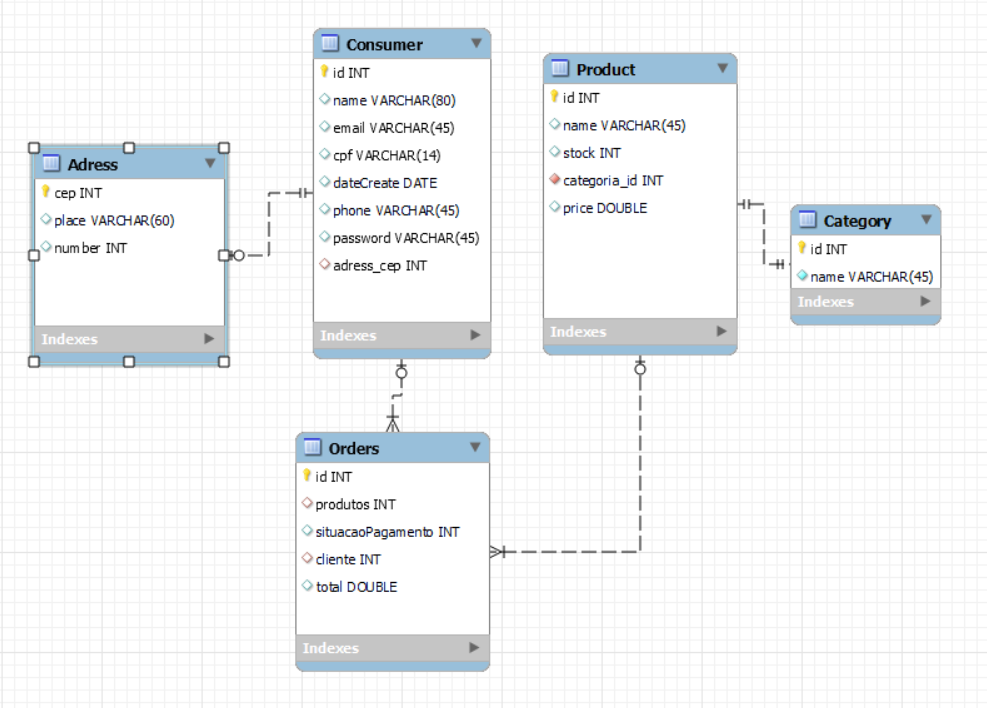
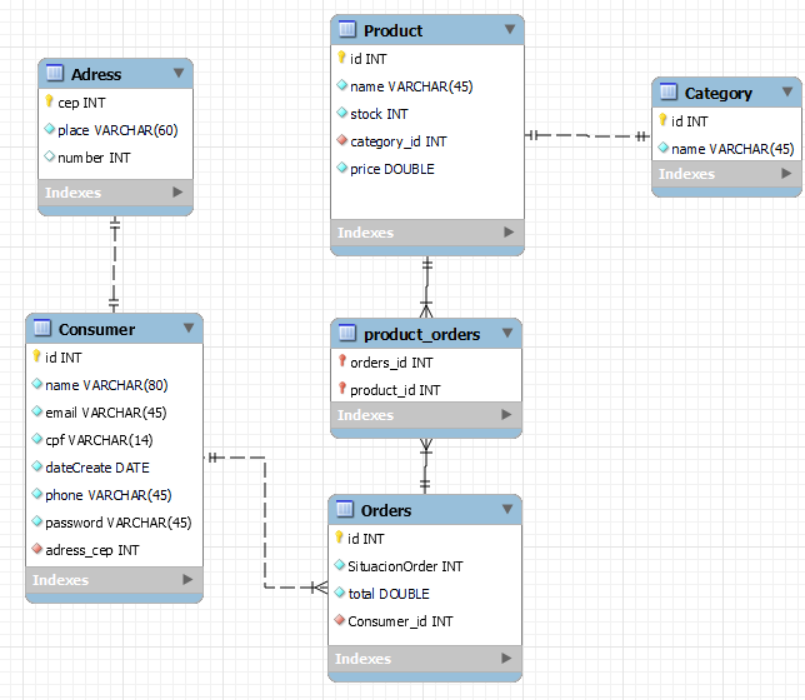
Arquivo de insert para tabelas e incluindo relacao @manytomany

Changed region(s): [[0.0311, 0.0, 1.0, 0.99]]

diff --git a/program/src/main/java/com/lojinhateles/program/model/Orders.java b/program/src/main/java/com/lojinhateles/program/model/Orders.java
@@ -1,9 +1,11 @@
 package com.lojinhateles.program.model;
 
 import java.io.Serializable;
-import java.util.List;
+import java.util.HashSet;
+import java.util.Set;
 
 import javax.persistence.CascadeType;
+import javax.persistence.Column;
 import javax.persistence.Entity;
 import javax.persistence.EnumType;
 import javax.persistence.Enumerated;
@@ -11,7 +13,8 @@ import javax.persistence.GeneratedValue;
 import javax.persistence.GenerationType;
 import javax.persistence.Id;
 import javax.persistence.JoinColumn;
-import javax.persistence.OneToMany;
+import javax.persistence.JoinTable;
+import javax.persistence.ManyToMany;
 import javax.persistence.OneToOne;
 import javax.persistence.Table;
 import javax.xml.bind.annotation.XmlRootElement;
@@ -24,13 +27,11 @@ import com.lojinhateles.program.enums.SituacionOrder;
 public class Orders implements Serializable {
 
 	private static final long serialVersionUID = 1L;
+	
 	@Id
 	@GeneratedValue(strategy = GenerationType.IDENTITY)
+	@Column(name = "id")
 	private Integer id;
-
-	@OneToMany(cascade = CascadeType.ALL)
-	@JoinColumn(name = "order_id")
-	private List<Product> products;
 
 	@OneToOne(cascade = CascadeType.ALL)
 	@JoinColumn(name = "consumer_id")
@@ -38,19 +39,24 @@ public class Orders implements Serializable {
 
 	@Enumerated(EnumType.ORDINAL)
 	private SituacionOrder situation;
-	
-	private Double total;
 
+	private Double total;
+	
+	@ManyToMany(cascade = CascadeType.ALL)
+	@JoinTable(name = "product_orders", joinColumns = {@JoinColumn(name = "orders_id")}, inverseJoinColumns = {@JoinColumn(name = "product_id")})
+	private Set<Product> product = new HashSet<Product>();
+	
 	public Orders() {
 
 	}
 
-	public Orders(Integer id, List<Product> products, Consumer consumer, SituacionOrder situation, Double total) {
+	public Orders(Integer id, Set<Product> product, Consumer consumer, SituacionOrder situation, Double total) {
 		this.id = id;
-		this.products = products;
+		this.product = product;
 		this.consumer = consumer;
 		this.situation = situation;
 		this.total = total;
+		
 	}
 
 	public Integer getId() {
@@ -61,12 +67,12 @@ public class Orders implements Serializable {
 		this.id = id;
 	}
 
-	public List<Product> getProducts() {
-		return products;
+	public Set<Product> getProducts() {
+		return product;
 	}
 
-	public void setProducts(List<Product> products) {
-		this.products = products;
+	public void setProducts(Set<Product> products) {
+		this.product = products;
 	}
 
 	public Consumer getConsumer() {
@@ -99,7 +105,7 @@ public class Orders implements Serializable {
 		int result = 1;
 		result = prime * result + ((consumer == null) ? 0 : consumer.hashCode());
 		result = prime * result + ((id == null) ? 0 : id.hashCode());
-		result = prime * result + ((products == null) ? 0 : products.hashCode());
+		result = prime * result + ((product == null) ? 0 : product.hashCode());
 		result = prime * result + ((situation == null) ? 0 : situation.hashCode());
 		result = prime * result + ((total == null) ? 0 : total.hashCode());
 		return result;
@@ -124,10 +130,10 @@ public class Orders implements Serializable {
 				return false;
 		} else if (!id.equals(other.id))
 			return false;
-		if (products == null) {
-			if (other.products != null)
+		if (product == null) {
+			if (other.product != null)
 				return false;
-		} else if (!products.equals(other.products))
+		} else if (!product.equals(other.product))
 			return false;
 		if (situation != other.situation)
 			return false;
@@ -141,9 +147,10 @@ public class Orders implements Serializable {
 
 	@Override
 	public String toString() {
-		return "Orders [id=" + id + ", products=" + products + ", consumer=" + consumer + ", situation=" + situation
-				+ ", total=" + total + "]";
+		return "Orders [id=" + id + ", consumer=" + consumer + ", situation=" + situation + ", total=" + total
+				+ ", product=" + product + "]";
 	}
-	
+
+
 
 }

diff --git a/program/src/main/java/com/lojinhateles/program/model/Product.java b/program/src/main/java/com/lojinhateles/program/model/Product.java
@@ -1,6 +1,8 @@
 package com.lojinhateles.program.model;
 
 import java.io.Serializable;
+import java.util.HashSet;
+import java.util.Set;
 
 import javax.persistence.CascadeType;
 import javax.persistence.Entity;
@@ -8,13 +10,17 @@ import javax.persistence.GeneratedValue;
 import javax.persistence.GenerationType;
 import javax.persistence.Id;
 import javax.persistence.JoinColumn;
+import javax.persistence.JoinTable;
+import javax.persistence.ManyToMany;
 import javax.persistence.OneToOne;
 import javax.persistence.Table;
 import javax.xml.bind.annotation.XmlRootElement;
 
+import com.fasterxml.jackson.annotation.JsonIgnore;
 @XmlRootElement
 @Entity
 @Table(name = "product")
+
 public class Product implements Serializable {
 
 	private static final long serialVersionUID = 1L;
@@ -22,18 +28,24 @@ public class Product implements Serializable {
 	@GeneratedValue(strategy = GenerationType.IDENTITY)
 	private Integer id;
 	private String name;
+	private String url;
 	private Integer stock;
 	private Double price;
+	@ManyToMany(mappedBy = "product", cascade = CascadeType.ALL)
+	private Set<Orders> orders = new HashSet<Orders>();
 	@OneToOne(cascade = CascadeType.ALL)
 	@JoinColumn(name = "category_id")
 	private Category category;
 
-	public Product(Integer id, String name, Integer stock, Double price, Category category) {
+
+	public Product(Integer id, String name, String url,Integer stock, Double price, Category category, Set<Orders> orders) {
 		this.id = id;
 		this.name = name;
+		this.url = url;
 		this.stock = stock;
 		this.price = price;
 		this.category = category;
+		this.orders = orders;
 	}
 
 	public Product() {
@@ -79,59 +91,25 @@ public class Product implements Serializable {
 		this.category = category;
 	}
 
-	@Override
-	public int hashCode() {
-		final int prime = 31;
-		int result = 1;
-		result = prime * result + ((category == null) ? 0 : category.hashCode());
-		result = prime * result + ((id == null) ? 0 : id.hashCode());
-		result = prime * result + ((name == null) ? 0 : name.hashCode());
-		result = prime * result + ((price == null) ? 0 : price.hashCode());
-		result = prime * result + ((stock == null) ? 0 : stock.hashCode());
-		return result;
+	public String getUrl() {
+		return url;
 	}
 
-	@Override
-	public boolean equals(Object obj) {
-		if (this == obj)
-			return true;
-		if (obj == null)
-			return false;
-		if (getClass() != obj.getClass())
-			return false;
-		Product other = (Product) obj;
-		if (category == null) {
-			if (other.category != null)
-				return false;
-		} else if (!category.equals(other.category))
-			return false;
-		if (id == null) {
-			if (other.id != null)
-				return false;
-		} else if (!id.equals(other.id))
-			return false;
-		if (name == null) {
-			if (other.name != null)
-				return false;
-		} else if (!name.equals(other.name))
-			return false;
-		if (price == null) {
-			if (other.price != null)
-				return false;
-		} else if (!price.equals(other.price))
-			return false;
-		if (stock == null) {
-			if (other.stock != null)
-				return false;
-		} else if (!stock.equals(other.stock))
-			return false;
-		return true;
+	public void setUrl(String url) {
+		this.url = url;
+	}
+
+
+	public void setOrders(Set<Orders> orders) {
+		this.orders = orders;
 	}
 
 	@Override
 	public String toString() {
-		return "Product [id=" + id + ", name=" + name + ", stock=" + stock + ", price=" + price + ", category="
-				+ category + "]";
+		return "Product [id=" + id + ", name=" + name + ", url=" + url + ", stock=" + stock + ", price=" + price
+				+ ", category=" + category + "]";
 	}
+
+
 
 }

diff --git a/program/src/main/java/com/lojinhateles/program/OrdersResource.java b/program/src/main/java/com/lojinhateles/program/OrdersResource.java
@@ -33,7 +33,6 @@ public class OrdersResource {
 		List<Orders> allOrders;
 		GenericEntity<List<Orders>> entity;
 		try {
-
 			allOrders = getOrdersDAO.getAll();
 			if(allOrders.size() <= 0) {
 				return Response.status(404).entity("Not Found").build();
@@ -126,20 +125,11 @@ public class OrdersResource {
 	@Path("/save")
 	public Response save(Orders order) {
 		try {
-			if(getOrdersDAO.getAll().size() <= 0 && order.getId() == null) {
-				return Response.status(405).entity("Id Required").build();
-			}
-			if (getOrdersDAO.getById(order.getId()) != null) {
-				return Response.status(405).entity("Not Authorized").build();
-			}
-		
+			order.setId(null);
 			getOrdersDAO.save(order);
 
 		} catch (NullPointerException nulls) {
 			return Response.status(404).entity("Not Found").build();
-
-		} catch (RuntimeException runtime) {
-			return Response.status(500).entity("Not Working!").build();
 
 		}
 

diff --git a/program/src/main/java/com/lojinhateles/program/CategoryResource.java b/program/src/main/java/com/lojinhateles/program/CategoryResource.java
@@ -128,23 +128,16 @@ public class CategoryResource {
 	@Path("/save")
 	public Response save(Category category) {
 		try {
-			if(getCategoryDAO.getAll().size() <= 0 && category.getId() == null) {
-				return Response.status(405).entity("Id Required").build();
-			}
-			if (getCategoryDAO.getById(category.getId()) != null) {
-				return Response.status(405).entity("Not Authorized").build();
-			}
-		
+			category.setId(null);
 			getCategoryDAO.save(category);
 
 		} catch (NullPointerException nulls) {
 			return Response.status(404).entity("Not Found").build();
 
-		} catch (RuntimeException runtime) {
+		}catch(RuntimeException runtime) {
 			return Response.status(500).entity("Not Working!").build();
 
 		}
-
 		return Response.status(200).entity("Its Work!").build();
 	}
 	@Produces(MediaType.TEXT_PLAIN)

diff --git a/program/src/main/java/com/lojinhateles/program/ConsumerResource.java b/program/src/main/java/com/lojinhateles/program/ConsumerResource.java
@@ -127,16 +127,11 @@ public class ConsumerResource {
 	@Produces({ MediaType.TEXT_PLAIN })
 	@POST
 	@Path("/save")
-	public Response save(Consumer prod) {
+	public Response save(Consumer cons) {
 		try {
-			if(getConsumerDAO.getAll().size() <= 0 && prod.getId() == null) {
-				return Response.status(405).entity("Id Required").build();
-			}
-			if (getConsumerDAO.getById(prod.getId()) != null) {
-				return Response.status(405).entity("Not Authorized").build();
-			}
+			cons.setId(null);
 		
-			getConsumerDAO.save(prod);
+			getConsumerDAO.save(cons);
 
 		} catch (NullPointerException nulls) {
 			return Response.status(404).entity("Not Found").build();

diff --git a/program/src/main/java/com/lojinhateles/program/dao/OrdersDAO.java b/program/src/main/java/com/lojinhateles/program/dao/OrdersDAO.java
@@ -21,7 +21,6 @@ public class OrdersDAO implements ObjectService<Orders> {
 
 	@Override
 	public Orders getById(Integer id) {
-
 		Orders orders = connection.find(Orders.class, id);
 		if (orders != null) {
 			return orders;
@@ -34,6 +33,7 @@ public class OrdersDAO implements ObjectService<Orders> {
 	public void save(Orders object) {
 		if (object != null) {
 			connection.getTransaction().begin();
+			object.setProducts(object.getProducts());
 			connection.merge(object);
 			connection.getTransaction().commit();
 		} else {

diff --git a/program/src/main/java/com/lojinhateles/program/model/Category.java b/program/src/main/java/com/lojinhateles/program/model/Category.java
@@ -2,6 +2,7 @@ package com.lojinhateles.program.model;
 
 import java.io.Serializable;
 
+import javax.persistence.Column;
 import javax.persistence.Entity;
 import javax.persistence.GeneratedValue;
 import javax.persistence.GenerationType;
@@ -17,6 +18,7 @@ public class Category implements Serializable {
 	private static final long serialVersionUID = 1L;
 	@Id
 	@GeneratedValue(strategy = GenerationType.IDENTITY)
+	@Column(name = "id")
 	private Integer id;
 	private String name;
 

diff --git a/program/src/main/java/com/lojinhateles/program/AdressResource.java b/program/src/main/java/com/lojinhateles/program/AdressResource.java
@@ -123,13 +123,6 @@ public class AdressResource {
 	@Path("/save")
 	public Response save(Adress adress) {
 		try {
-			if (getAdressDAO.getAll().size() <= 0 && adress.getCep() == null) {
-				return Response.status(405).entity("Id Required").build();
-			}
-			if (getAdressDAO.getById(adress.getCep()) != null) {
-				return Response.status(405).entity("Not Authorized").build();
-			}
-
 			getAdressDAO.save(adress);
 
 		} catch (NullPointerException runtime) {

diff --git a/program/src/main/java/com/lojinhateles/program/ProductResource.java b/program/src/main/java/com/lojinhateles/program/ProductResource.java
@@ -125,12 +125,7 @@ public class ProductResource {
 	@Path("/save")
 	public Response save(Product prod) {
 		try {
-			if(getProductDAO.getAll().size() <= 0 && prod.getId() == null) {
-				return Response.status(405).entity("Id Required").build();
-			}
-			if (getProductDAO.getById(prod.getId()) != null) {
-				return Response.status(405).entity("Not Authorized").build();
-			}
+			prod.setId(null);
 		
 			getProductDAO.save(prod);
 
